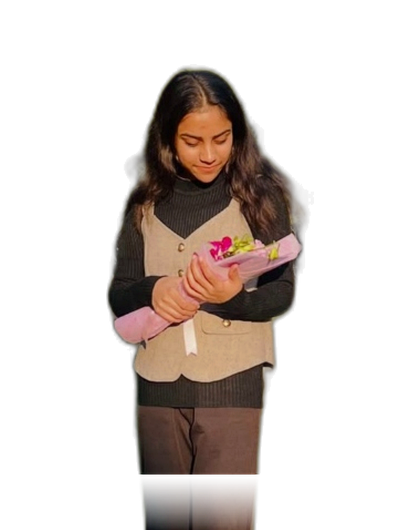
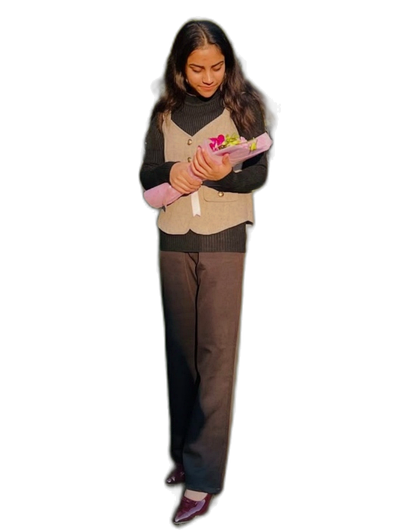
Fix hero portrait: restore complete uncut legs down to shoes with zero horizontal lines

Changed region(s): [[0.2476, 0.0302, 0.7429, 1.0]]

diff --git a/index.html b/index.html
@@ -10,7 +10,7 @@
   <link rel="preconnect" href="https://fonts.gstatic.com" crossorigin>
   <link href="https://fonts.googleapis.com/css2?family=Cinzel+Decorative:wght@400;700&family=Dancing+Script:wght@600;700&family=Great+Vibes&family=Playfair+Display:ital,wght@0,500;0,700;1,400&family=Plus+Jakarta+Sans:wght@400;500;600;700&display=swap" rel="stylesheet">
   
-  <link rel="stylesheet" href="Css/style.css?v=14">
+  <link rel="stylesheet" href="Css/style.css?v=15">
   <script src="confetti.min.js"></script>
 </head>
 <body>
@@ -37,7 +37,7 @@
   <div class="portrait-container tilt" data-depth="1">
     <div class="portrait-halo"></div>
     <div class="portrait-frame">
-      <img src="img/user.png?v=5" alt="Rimpal">
+      <img src="img/user.png?v=15" alt="Rimpal">
     </div>
     <i class="spark s1">✦</i>
     <i class="spark s2">✧</i>
@@ -180,7 +180,7 @@
 <div id="lanterns" aria-hidden="true"></div>
 
 <!-- Scripts -->
-<script src="background.js?v=14"></script>
-<script src="main.js?v=14"></script>
+<script src="background.js?v=15"></script>
+<script src="main.js?v=15"></script>
 </body>
 </html>
